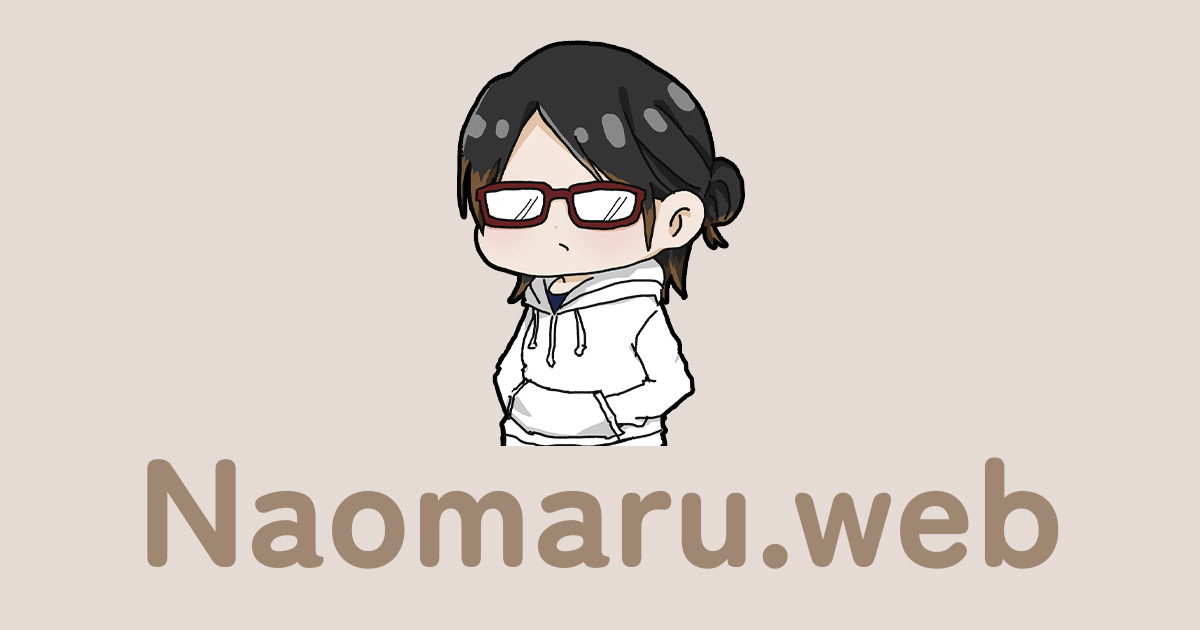
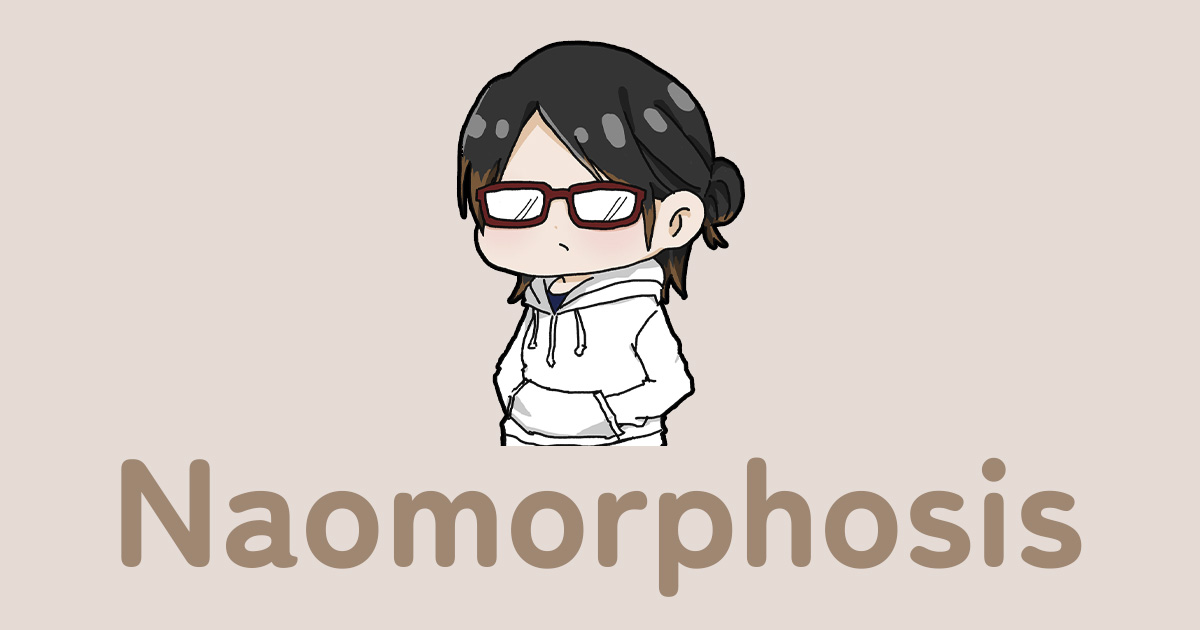
サイト名を変更しました

Changed region(s): [[0.0925, 0.7238, 0.925, 0.9651]]

diff --git a/src/components/Header/Header.tsx b/src/components/Header/Header.tsx
@@ -15,9 +15,9 @@ export default function Header() {
   return (
     <header className="fixed top-0 left-0 right-0 m-auto h-[60px] pl-8 pr-5 lg:px-0 flex justify-between items-center bg-opacity-70 z-50 lg:bg-secondaryColor lg:h-0 duration-500">
       <nav className={
-        isOpen ? "fixed bg-primaryColor w-full pt-[60px] top-0 left-0 opacity-100 h-lvh duration-500 ease-in"
-          : `fixed bg-primaryColor w-full pt-[60px] top-0 left-0 opacity-0 h-lvh duration-500 ease-in pointer-events-none 
-              lg:pointer-events-auto lg:opacity-100 lg:bg-[transparent] lg:w-80 lg:top-auto lg:bottom-[300px] lg:h-auto lg:left-[calc(50vw+(640px/2)+30px)]`
+        isOpen ? "fixed bg-primaryColor w-full pt-[60px] top-0 left-0 opacity-100 h-lvh transition-all duration-500 ease-in"
+          : `fixed bg-primaryColor w-full pt-[60px] top-0 left-0 opacity-0 h-lvh transition-all duration-500 ease-in pointer-events-none 
+              lg:pointer-events-auto lg:opacity-100 lg:bg-[transparent] lg:w-80 lg:top-auto lg:bottom-[300px] lg:h-auto lg:transition-none lg:left-[calc(50vw+(640px/2)+30px)]`
       }>
         <ul className="p-5 relative flex flex-wrap font-bold lg:bg-primaryColor lg:rounded-[20px] lg:pt-16 lg:pl-10 lg:after:content-['MENU'] lg:after:text-quaternaryColor lg:after:block lg:after:text-2xl lg:after:tracking-widest lg:after:absolute lg:after:top-6 lg:after:left-0 lg:after:right-0 lg:after:m-auto lg:after:text-center">
           <li className={isOpen ? "px-5 py-4 w-full h-min transition-all duration-1000 delay-[300ms] opacity-100"
@@ -57,9 +57,37 @@ export default function Header() {
             </Link>
           </li>
         </ul>
+        <ul className={isOpen ? "w-full px-5 flex flex-wrap font-bold transition-all ease-in duration-1000 delay-[1300ms] opacity-100"
+          : `pointer-events-none w-full px-5 font-bold transition-all duration-500 ease-in opacity-0 -translate-x-5 
+            lg:opacity-100 lg:pointer-events-auto lg:fixed lg:w-90 lg:top-auto lg:bottom-[100px] lg:transition-none lg:left-[calc(50vw+(640px/2)+20px)]`}>
+          <li className="p-5 w-full h-min">
+            <p className="text-xl text-quaternaryColor tracking-wider">
+              THEME COLOR <span className="text-sm">テーマカラー</span><br />
+              <span className="text-xs">サイトのテーマカラーを変更できます</span>
+            </p>
+          </li>
+          <li className="px-5 w-full h-min flex gap-6">
+
+            <div onClick={() => setIsTheme('natural')}>
+              <div className="w-8 h-8 rounded-full bg-[#9F8772] mx-auto my-1 duration-300 lg:hover:scale-110"></div>
+              <p className="text-center text-quaternaryColor">Natural</p>
+            </div>
+
+            <div onClick={() => setIsTheme('skyblue')}>
+              <div className="w-8 h-8 rounded-full bg-[#749BC2] mx-auto my-1 duration-300 lg:hover:scale-110"></div>
+              <p className="text-center text-quaternaryColor">SkyBlue</p>
+            </div>
+
+            <div onClick={() => setIsTheme('girly')}>
+              <div className="w-8 h-8 rounded-full bg-[#E17A9B] mx-auto my-1 duration-300 lg:hover:scale-110"></div>
+              <p className="text-center text-quaternaryColor">Girly</p>
+            </div>
+
+          </li>
+        </ul>
       </nav>
-      <Link onClick={() => setIsOpen(false)} href="/" className="lg:block lg:w-80 lg:fixed lg:bottom-[160px] lg:right-[calc(50%+320px)] lg:-rotate-90">
-        <h1 className="font-bold text-2xl text-quaternaryColor relative tracking-wider w-full lg:text-[240px] lg:opacity-70">Naomaru.web</h1>
+      <Link onClick={() => setIsOpen(false)} href="/" className="lg:block lg:w-fit lg:h-fit lg:fixed lg:bottom-[360px] lg:right-[calc(50%+20px)] lg:-rotate-90">
+        <h1 className="font-bold text-2xl text-quaternaryColor relative tracking-wider w-full lg:text-[120px] lg:leading-none lg:opacity-70 lg:whitespace-nowrap">Naomorphosis</h1>
       </Link>
       <button onClick={handleMenuOpen} className="flex flex-wrap flex-col justify-between w-[30px] h-[16px] lg:hidden">
         <span className={
@@ -77,35 +105,6 @@ export default function Header() {
             : "rounded-sm h-0.5 w-5 bg-quaternaryColor duration-300 delay-500 ease-in"
         }></span>
       </button>
-
-      <ul className={isOpen ? "absolute top-[440px] left-0 w-full px-5 py-4 flex flex-wrap font-bold transition-all ease-in duration-1000 delay-[1300ms] opacity-100"
-        : `pointer-events-none absolute top-[440px] left-0 w-full px-5 py-4 font-bold transition-all duration-500 ease-in opacity-0 -translate-x-5 
-            lg:opacity-100 lg:pointer-events-auto lg:fixed lg:w-90 lg:top-auto lg:bottom-[100px] lg:left-[calc(50vw+(640px/2)+20px)]`}>
-        <li className="p-5 w-full h-min">
-          <p className="text-xl text-quaternaryColor tracking-wider">
-            THEME COLOR <span className="text-sm">テーマカラー</span><br />
-            <span className="text-xs">サイトのテーマカラーを変更できます</span>
-          </p>
-        </li>
-        <li className="px-5 w-full h-min flex gap-6">
-
-          <div onClick={() => setIsTheme('natural')}>
-            <div className="w-8 h-8 rounded-full bg-[#9F8772] mx-auto my-1 duration-300 lg:hover:scale-110"></div>
-            <p className="text-center text-quaternaryColor">Natural</p>
-          </div>
-
-          <div onClick={() => setIsTheme('skyblue')}>
-            <div className="w-8 h-8 rounded-full bg-[#749BC2] mx-auto my-1 duration-300 lg:hover:scale-110"></div>
-            <p className="text-center text-quaternaryColor">SkyBlue</p>
-          </div>
-
-          <div onClick={() => setIsTheme('girly')}>
-            <div className="w-8 h-8 rounded-full bg-[#E17A9B] mx-auto my-1 duration-300 lg:hover:scale-110"></div>
-            <p className="text-center text-quaternaryColor">Girly</p>
-          </div>
-
-        </li>
-      </ul>
     </header>
   );
 }

diff --git a/src/app/layout.tsx b/src/app/layout.tsx
@@ -19,15 +19,15 @@ const YomogiFont = Yomogi({ weight: "400", subsets: ["latin"] });
 const ZenMaruGothic = Zen_Maru_Gothic({ weight: "300", subsets: ["latin"] });
 
 export const metadata: Metadata = {
-  title: "Naomaru.web",
-  description: "My Website",
+  title: "Naomorphosis",
+  description: "Naomaru + Metamorphosis = Naomorphosis. 技術力や想像力、クリエイターとしてこれからも「進化し続けたい」という想いを自身のクリエイター名と合わせた造語です。これまでに制作した作品を載せています。",
   robots: "noindex nofollow",
   openGraph: {
     type: "website",
     url: "https://naomaru-design.vercel.app/",
-    title: "Naomaru.web",
-    description: "My Website",
-    siteName: "Naomaru.web",
+    title: "Naomorphosis",
+    description: "Naomaru + Metamorphosis = Naomorphosis. 技術力や想像力、クリエイターとしてこれからも「進化し続けたい」という想いを自身のクリエイター名と合わせた造語です。これまでに制作した作品を載せています。",
+    siteName: "Naomorphosis",
     images: [{
       url: "https://naomaru-design.vercel.app/img/og_image.jpg",
     }],

diff --git a/src/app/works/page.tsx b/src/app/works/page.tsx
@@ -56,7 +56,7 @@ export default function Home() {
           <div id="site2" className="pt-16 -mt-16 mb-3">
             <Link href="https://naomaru-design.vercel.app" target="_blank" className="block relative w-full aspect-[16/9] rounded-lg overflow-hidden shadow-[0_2px_10px_rgba(0,0,0,0.1)]">
               <Image
-                src="/img/works/naomaru.web.jpg"
+                src="/img/common/og_image.jpg"
                 alt="ポートフォリオサイト"
                 fill
                 style={{ objectFit: 'cover' }}

diff --git a/src/app/page.tsx b/src/app/page.tsx
@@ -179,7 +179,7 @@ export default function Home() {
             <ScrollReveal move="bottom" delay={200} className="mb-2 rounded-xl overflow-hidden shadow-[0_2px_10px_rgba(0,0,0,0.1)]">
               <Link href="/works/#site2" className="block relative w-full aspect-[16/9]">
                 <Image
-                  src="/img/works/naomaru.web.jpg"
+                  src="/img/common/og_image.jpg"
                   alt="ポートフォリオサイト"
                   fill
                   style={{ objectFit: 'cover' }}
